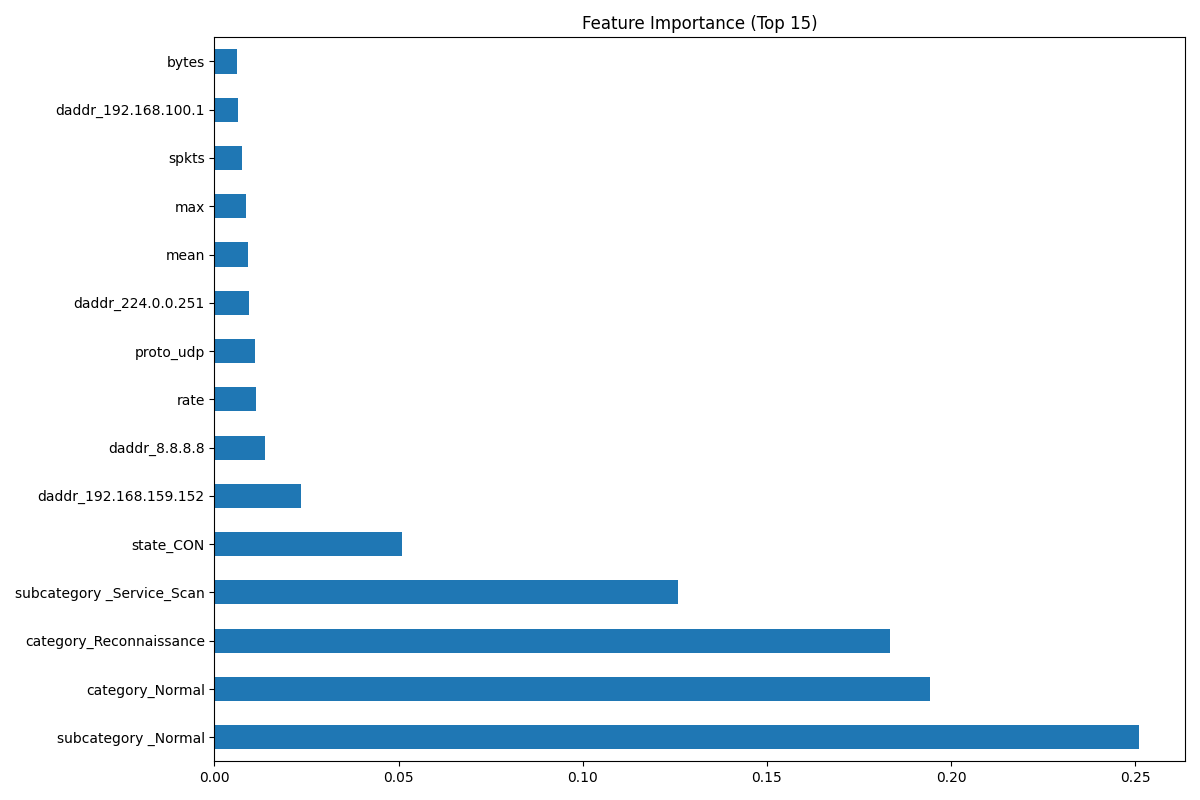
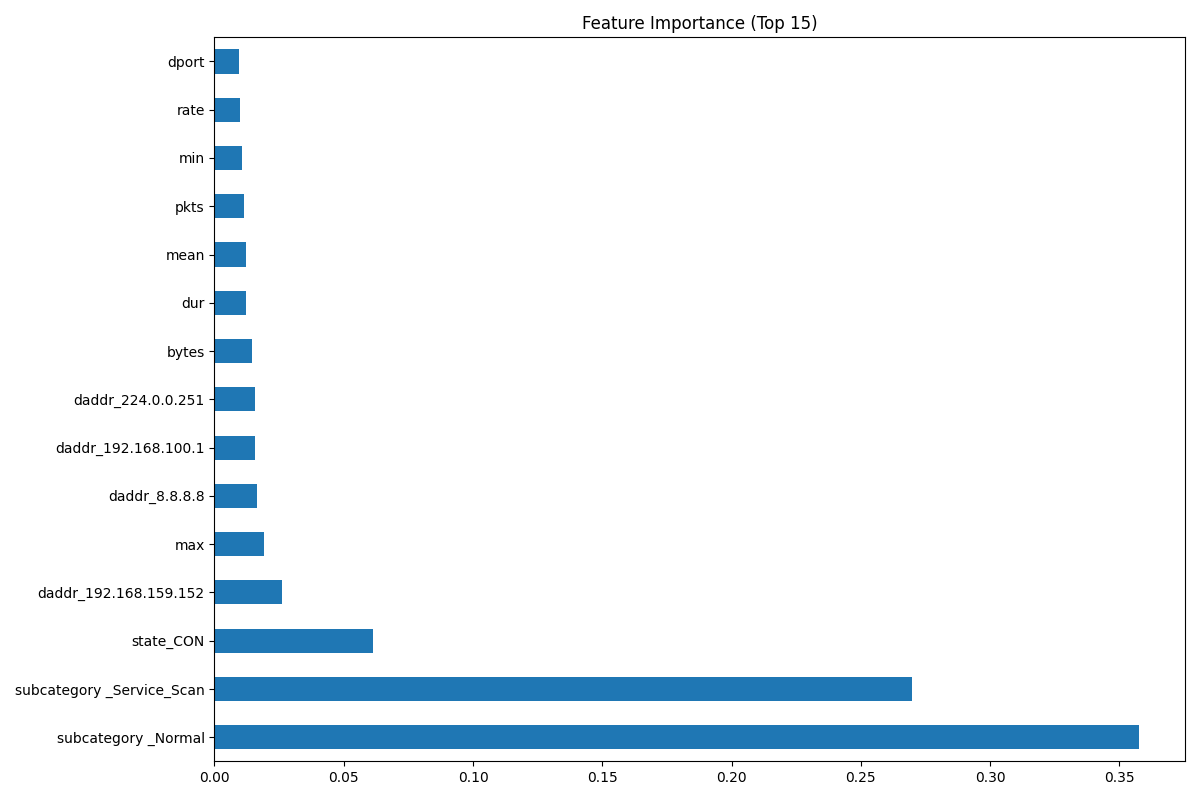
Refactor data preprocessing to exclude target and label-related columns from feature set

diff --git a/src/app.py b/src/app.py
@@ -46,17 +46,16 @@ def load_and_explore_data(file_path):
 def preprocess_data(df, target_col):
     """資料預處理"""
     print("\n== 資料預處理 ==")
-    
     # 分離特徵與標籤
-    X = df.drop(columns=[target_col])
+    # 確保 target_col 及所有標籤相關欄位不在 X
+    exclude_cols = set([target_col, 'category', 'subcategory', 'label', 'attack'])
+    exclude_cols = [col for col in exclude_cols if col in df.columns]
+    X = df.drop(columns=exclude_cols)
     y = df[target_col]
-    
     # 處理類別型特徵
     cat_cols = X.select_dtypes(include=['object']).columns
-    
     if not cat_cols.empty:
         print(f"處理類別型特徵: {cat_cols.tolist()}")
-        
         # 識別高基數特徵 (例如IP地址、連接埠)
         high_cardinality_cols = []
         for col in cat_cols:
@@ -64,37 +63,27 @@ def preprocess_data(df, target_col):
             print(f"  - {col}: {unique_count} 個唯一值")
             if unique_count > 100:  # 閾值可調整
                 high_cardinality_cols.append(col)
-        
         if high_cardinality_cols:
             print(f"\n高基數特徵 (跳過one-hot編碼): {high_cardinality_cols}")
-            
-            # 標籤編碼高基數特徵，先轉成字串避免型別錯誤
             from sklearn.preprocessing import LabelEncoder
             for col in high_cardinality_cols:
                 le = LabelEncoder()
                 X[col] = le.fit_transform(X[col].astype(str))
-            
-            # 僅對低基數特徵進行one-hot編碼
             low_cardinality_cols = [col for col in cat_cols if col not in high_cardinality_cols]
             if low_cardinality_cols:
                 print(f"執行one-hot編碼: {low_cardinality_cols}")
                 X = pd.get_dummies(X, columns=low_cardinality_cols)
         else:
-            # 若沒有高基數特徵，對所有類別型特徵進行one-hot編碼
             X = pd.get_dummies(X, columns=cat_cols)
-
     # one-hot後補齊所有NaN為0，避免後續模型報錯
     X = X.fillna(0)
-
     # 分割訓練集和測試集
     X_train, X_test, y_train, y_test = train_test_split(X, y, test_size=0.2, random_state=42)
     print(f"訓練集: {X_train.shape[0]} 筆資料, 測試集: {X_test.shape[0]} 筆資料")
-    
     # 特徵標準化
     scaler = StandardScaler()
     X_train_scaled = scaler.fit_transform(X_train)
     X_test_scaled = scaler.transform(X_test)
-    
     return X_train_scaled, X_test_scaled, y_train, y_test, X.columns
 
 def train_and_evaluate(X_train, X_test, y_train, y_test, feature_names):
